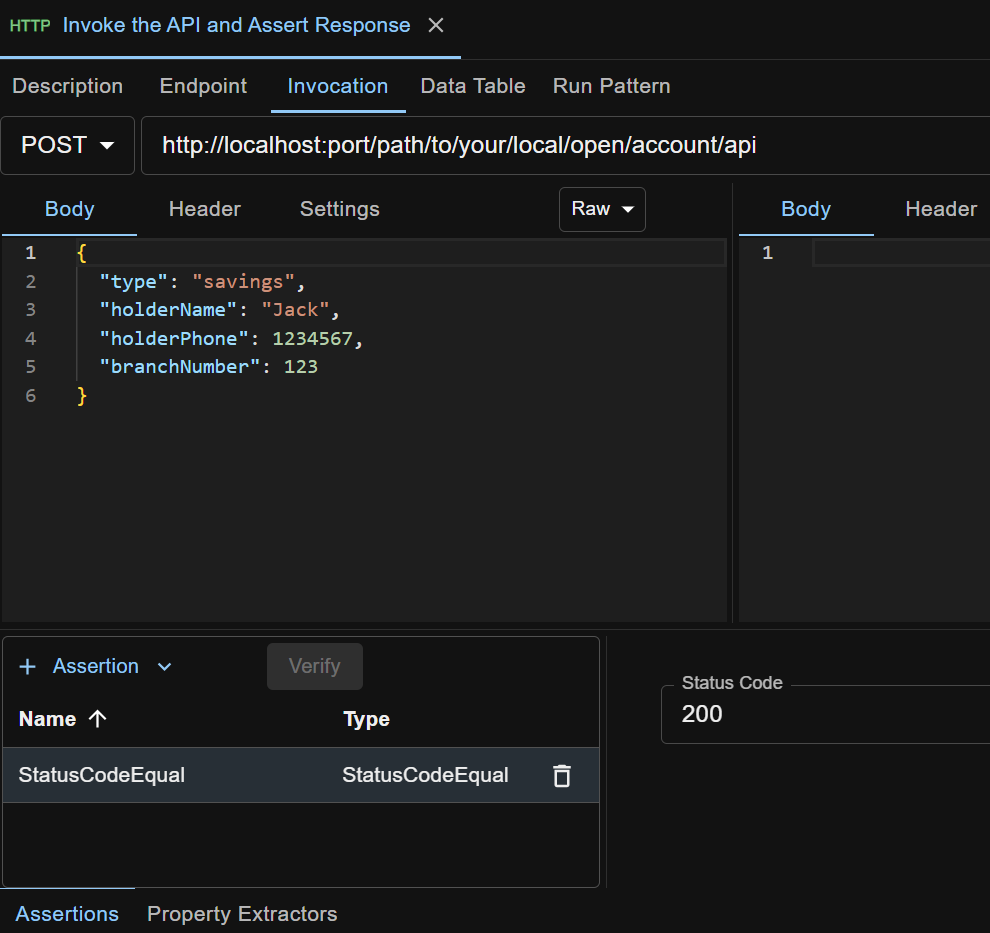
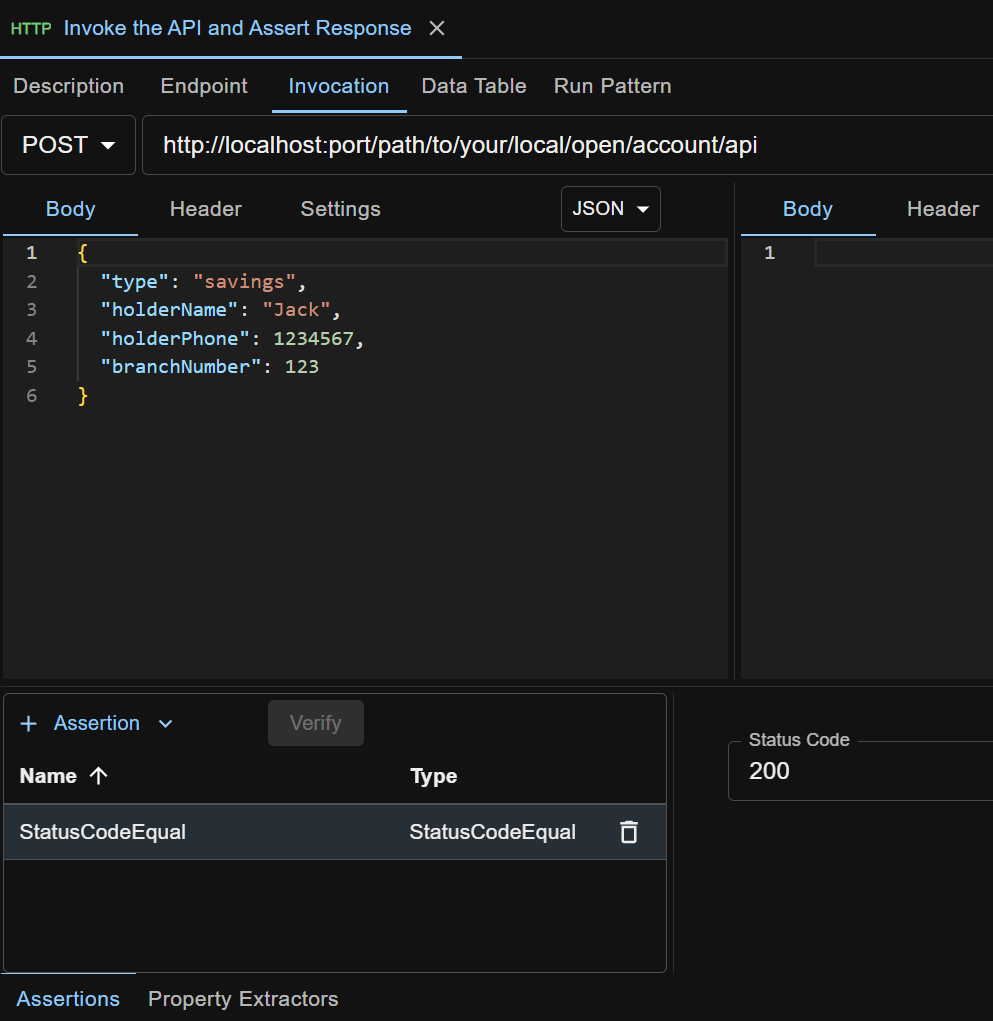
update HTTP request screenshots

diff --git a/_docs/en/creating-automated-test-case.md b/_docs/en/creating-automated-test-case.md
@@ -49,11 +49,7 @@ Open step 2 from the test case.
 
 Under the `Invocation` tab, select `PUT` from the Method dropdown list, and set URL `http://localhost:8090/api/articles/2`.
 
-Under the `Header` sub tab, add a request HTTP header using the `+` button, and update it to be `Content-Type: application/json`. This header is required by the Article API.
-
-![HTTP Request Header](../../screenshots/basic-use/http-request-header.png)
-
-Input the request body:
+Select JSON from the Body type dropdown list, and paste the request body:
 
 ```
 {
